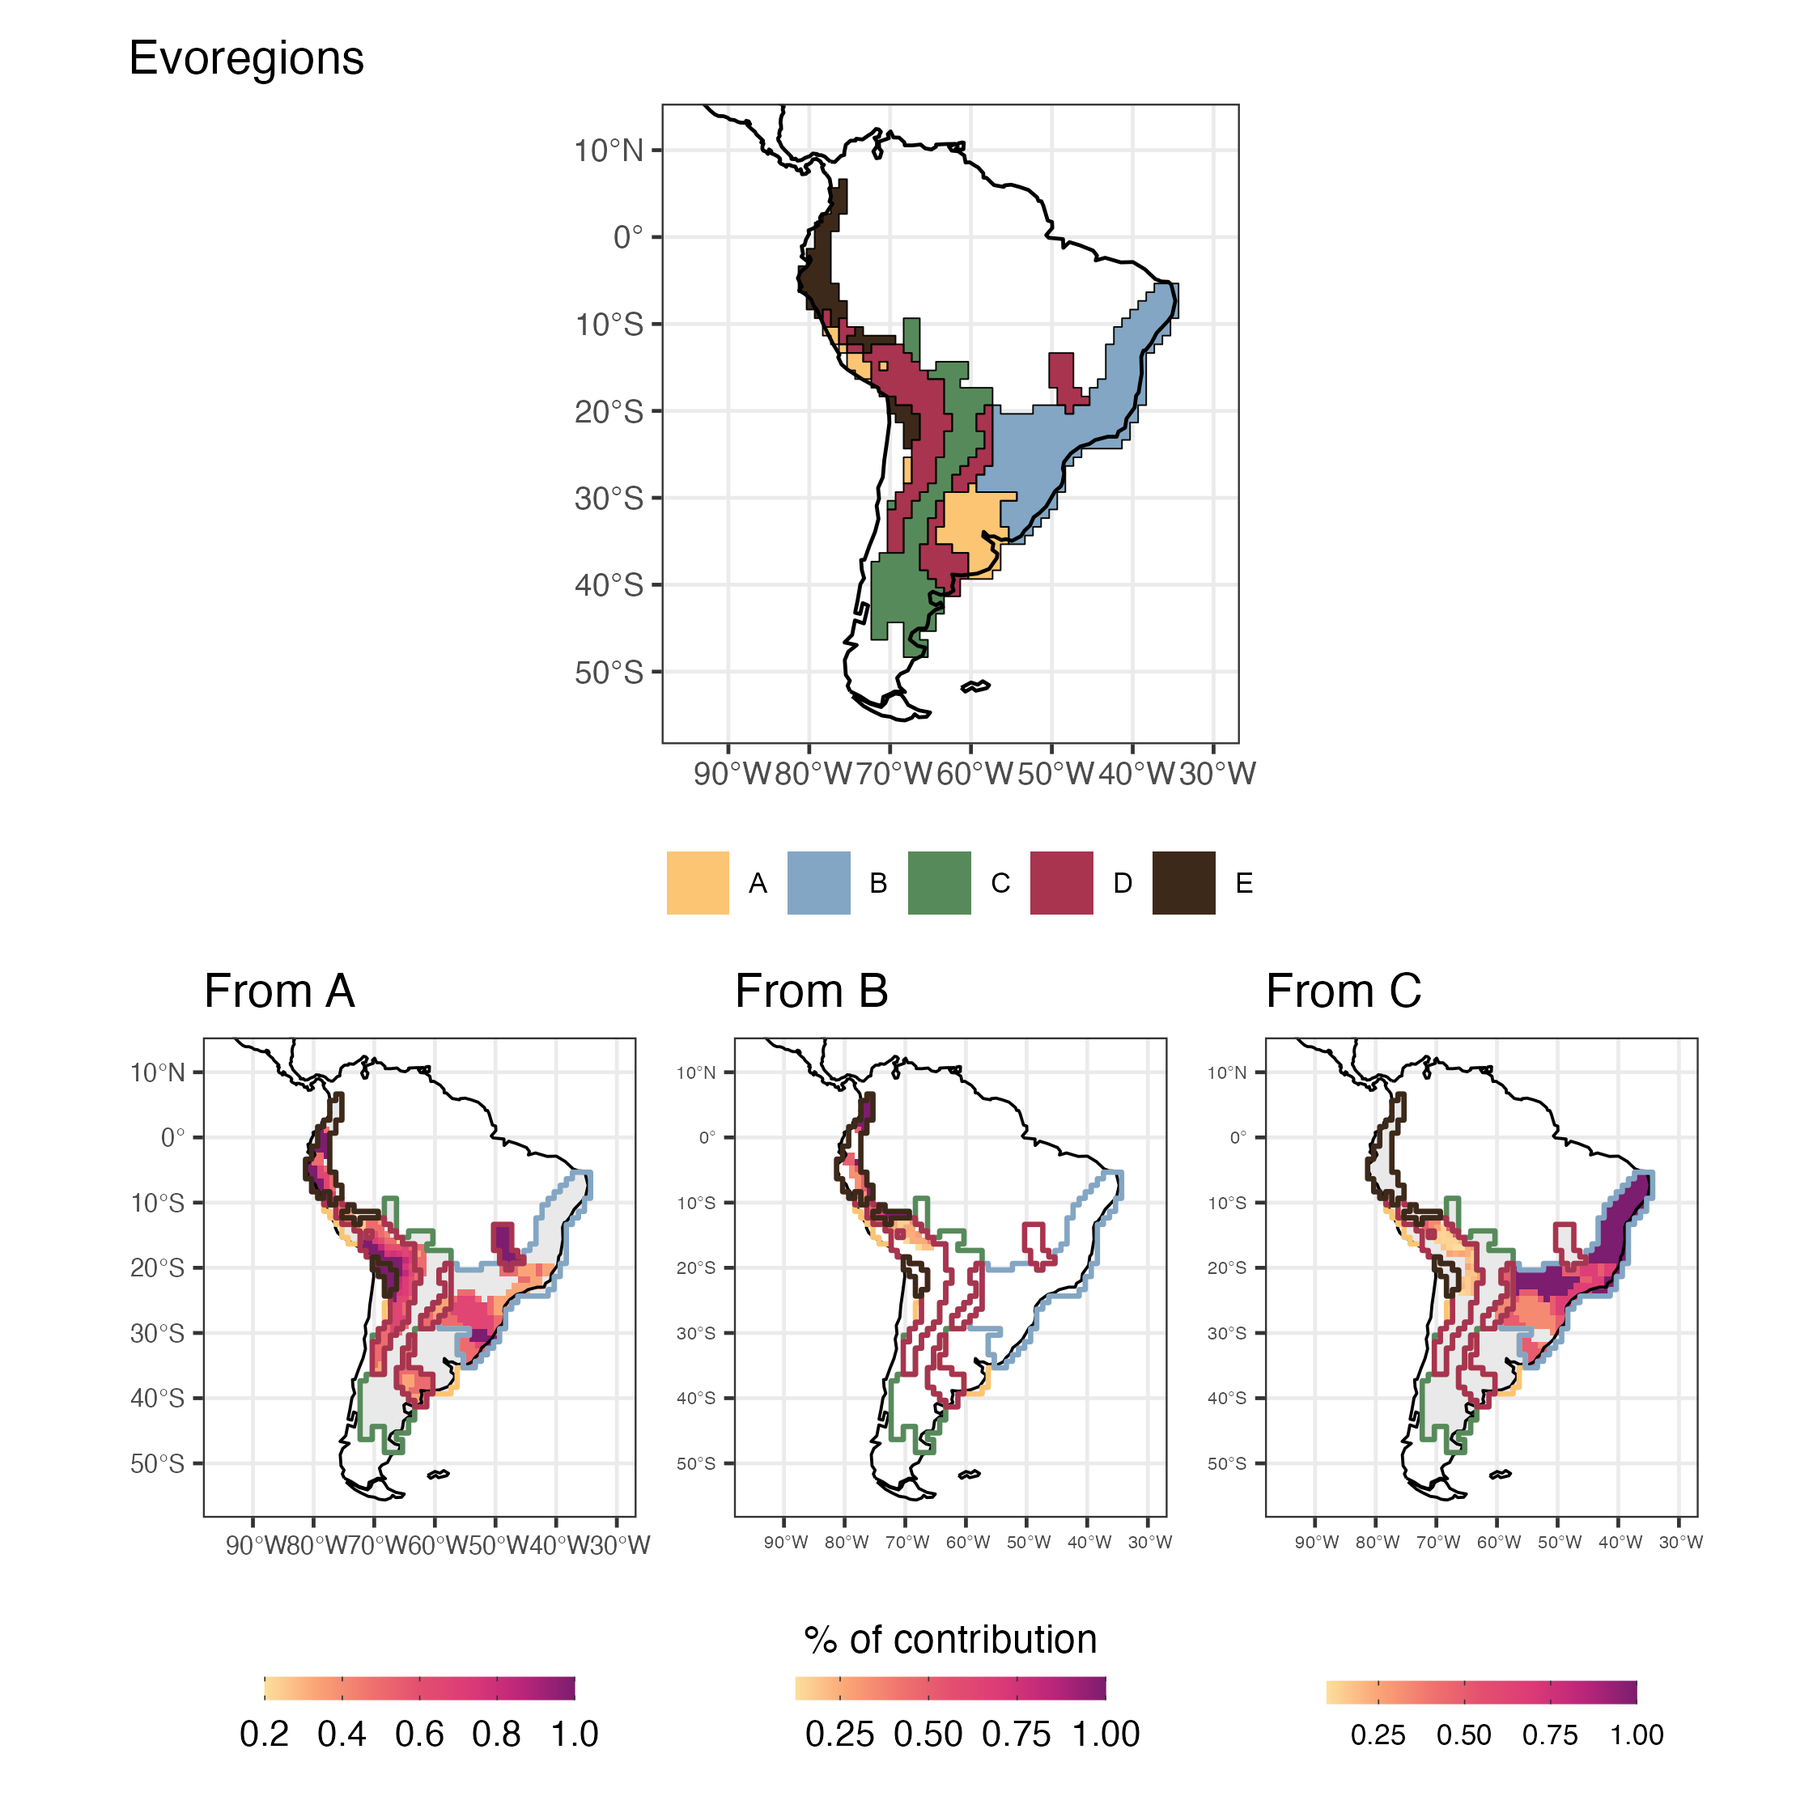
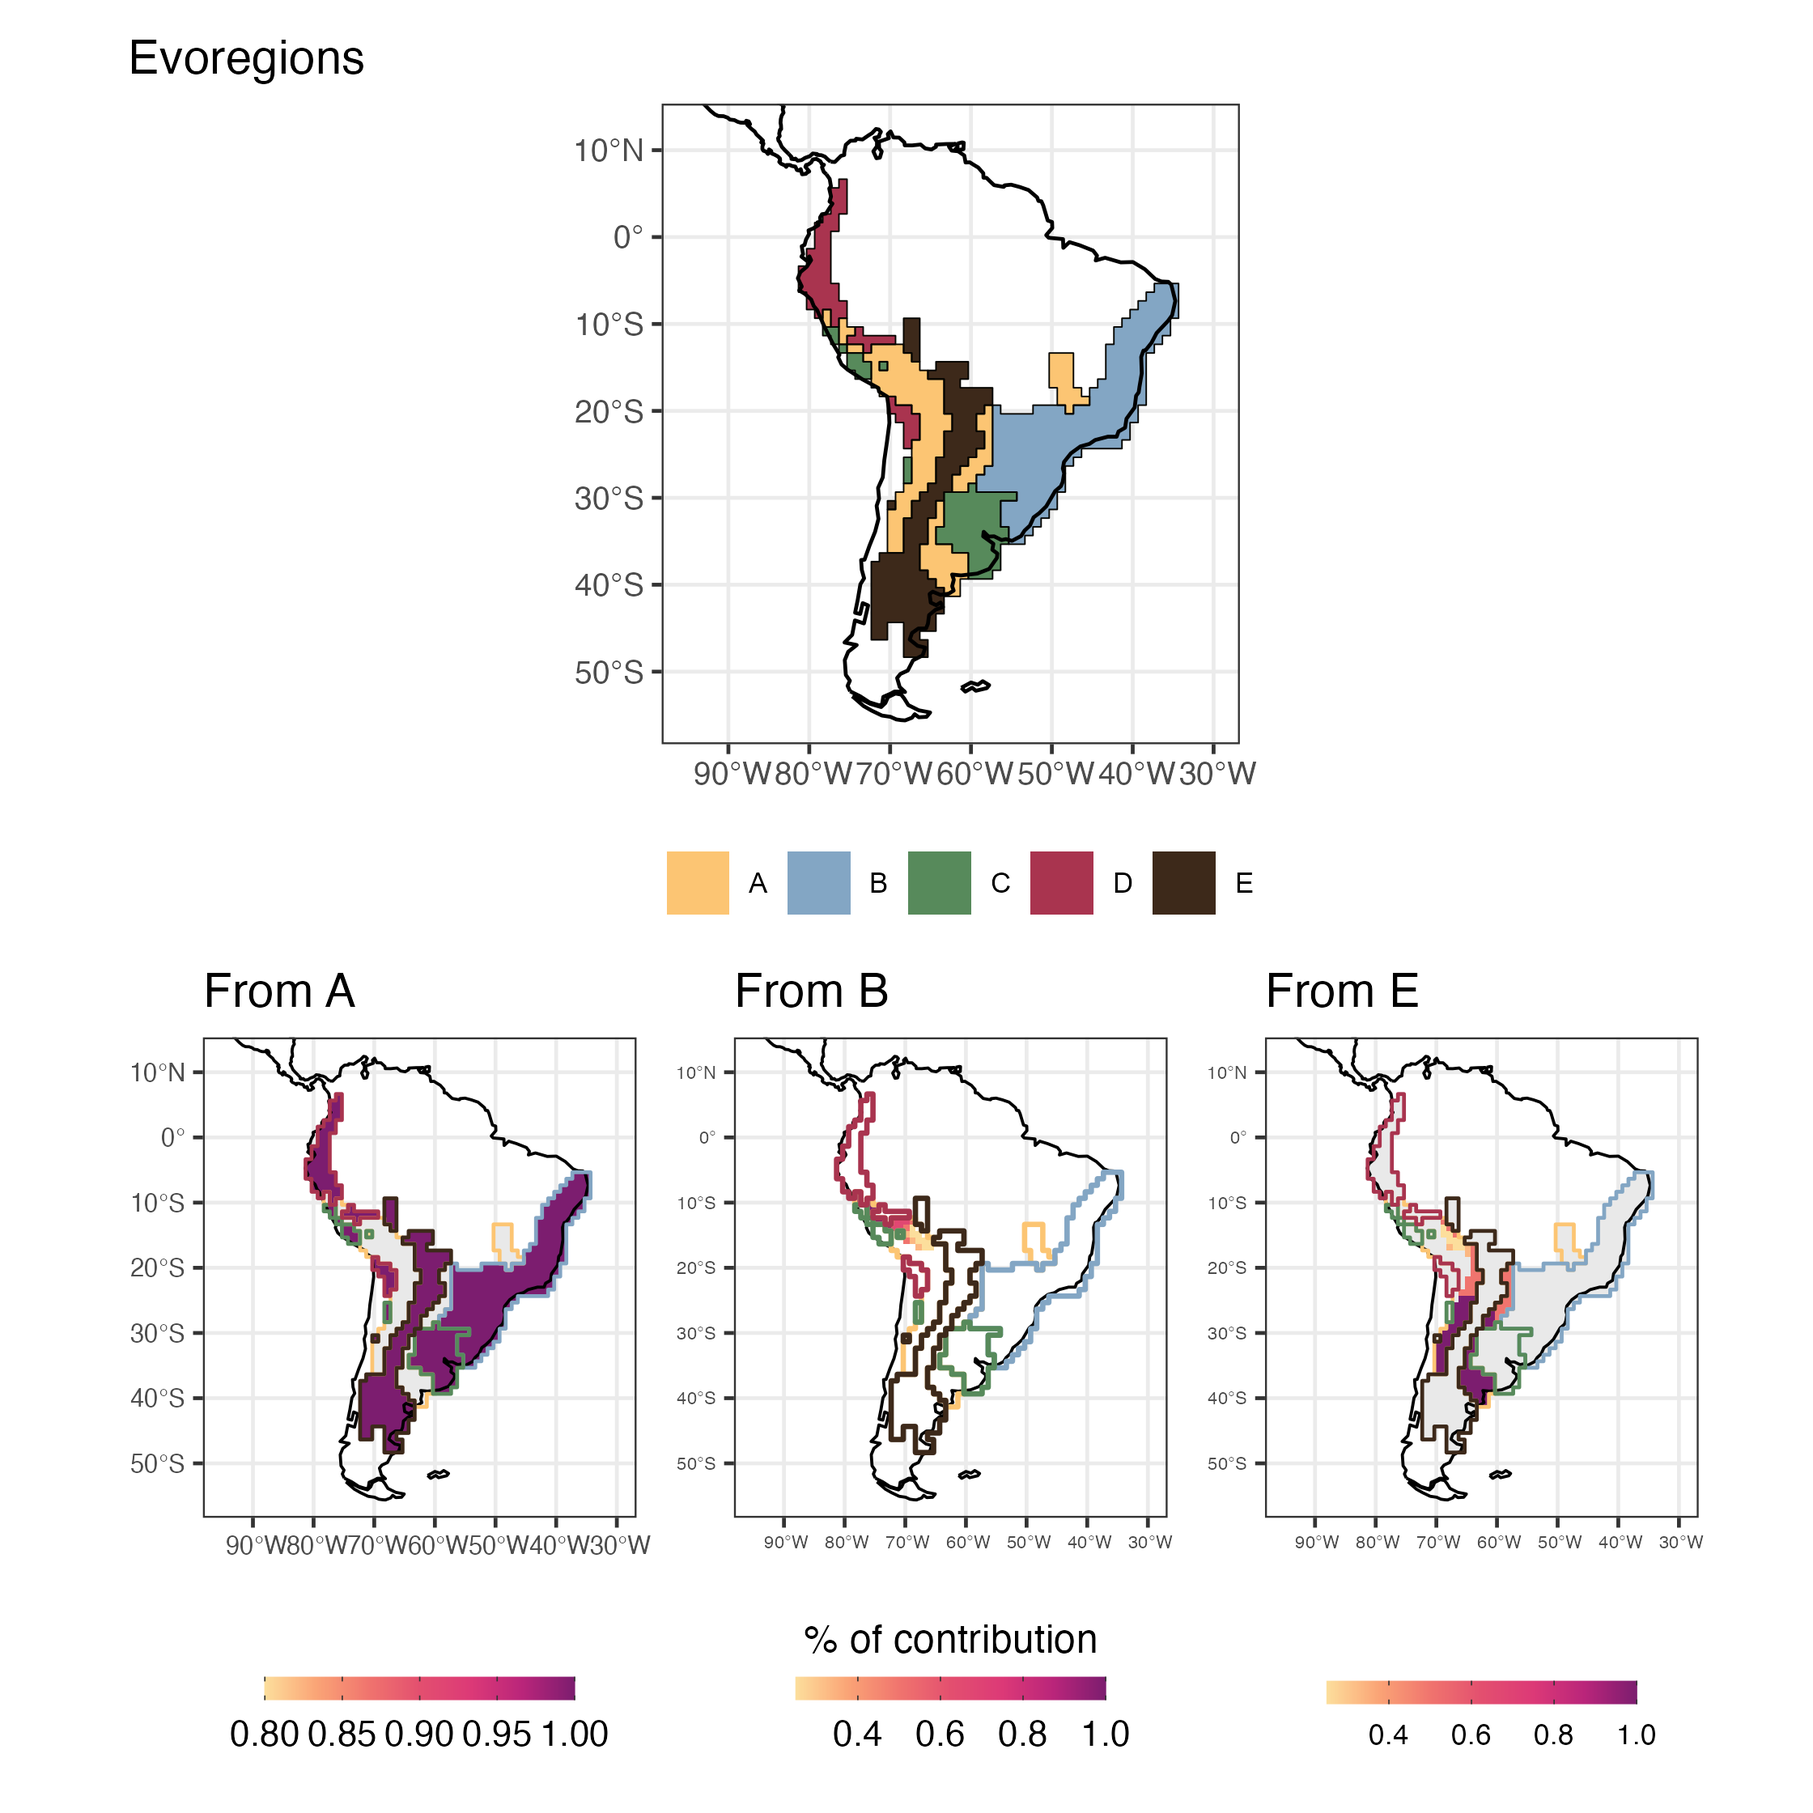
Built site for Herodotools: 0.0.1@89fd88a

diff --git a/articles/Intro_Herodotools_vignette.html b/articles/Intro_Herodotools_vignette.html
@@ -106,7 +106,8 @@
 <span class="kw"><a href="https://rdrr.io/r/base/library.html" class="external-link">library</a></span><span class="op">(</span><span class="va"><a href="https://here.r-lib.org/" class="external-link">here</a></span><span class="op">)</span>
 <span class="kw"><a href="https://rdrr.io/r/base/library.html" class="external-link">library</a></span><span class="op">(</span><span class="va"><a href="https://r-spatial.github.io/sf/" class="external-link">sf</a></span><span class="op">)</span>
 <span class="kw"><a href="https://rdrr.io/r/base/library.html" class="external-link">library</a></span><span class="op">(</span><span class="va"><a href="https://github.com/ropenscilabs/rnaturalearth" class="external-link">rnaturalearth</a></span><span class="op">)</span>
-<span class="kw"><a href="https://rdrr.io/r/base/library.html" class="external-link">library</a></span><span class="op">(</span><span class="va"><a href="https://github.com/Nowosad/rcartocolor" class="external-link">rcartocolor</a></span><span class="op">)</span></code></pre></div>
+<span class="kw"><a href="https://rdrr.io/r/base/library.html" class="external-link">library</a></span><span class="op">(</span><span class="va"><a href="https://github.com/Nowosad/rcartocolor" class="external-link">rcartocolor</a></span><span class="op">)</span>
+<span class="kw"><a href="https://rdrr.io/r/base/library.html" class="external-link">library</a></span><span class="op">(</span><span class="va"><a href="https://patchwork.data-imaginist.com" class="external-link">patchwork</a></span><span class="op">)</span></code></pre></div>
 <p>If you do not have Herodotools installed use the following code to install the package from github repository:</p>
 <div class="sourceCode" id="cb2"><pre class="downlit sourceCode r">
 <code class="sourceCode R"><span class="fu">devtools</span><span class="fu">::</span><span class="fu"><a href="https://devtools.r-lib.org/reference/remote-reexports.html" class="external-link">install_github</a></span><span class="op">(</span><span class="st">"GabrielNakamura/Herodotools"</span>, ref <span class="op">=</span> <span class="st">"main"</span><span class="op">)</span></code></pre></div>
@@ -333,6 +334,7 @@
 <p>Since it take some time to run BioGeoBears, and this is not the objective of this tutorial to show how to run a reconstruction using BioGeoBears we can just read a reconstruction model perfomed using DEC model to reconstruct the evoregions. To read the file containing the results of this reconstruction type:</p>
 <div class="sourceCode" id="cb14"><pre class="downlit sourceCode r">
 <code class="sourceCode R"><span class="kw"><a href="https://rdrr.io/r/base/library.html" class="external-link">library</a></span><span class="op">(</span><span class="va"><a href="http://phylo.wikidot.com/biogeobears" class="external-link">BioGeoBEARS</a></span><span class="op">)</span>
+<span class="kw"><a href="https://rdrr.io/r/base/source.html" class="external-link">source</a></span><span class="op">(</span><span class="op">)</span>
 <span class="fu"><a href="https://rdrr.io/r/base/load.html" class="external-link">load</a></span><span class="op">(</span>file <span class="op">=</span> <span class="fu">here</span><span class="fu">::</span><span class="fu"><a href="https://here.r-lib.org//reference/here.html" class="external-link">here</a></span><span class="op">(</span><span class="st">"inst"</span>, <span class="st">"extdata"</span>, <span class="st">"resDEC_akodon.RData"</span><span class="op">)</span><span class="op">)</span> <span class="co"># ancestral reconstruction</span></code></pre></div>
 <p>It is worth to note that the procedures decribed from here will work with any output model from BioGeoBear, but for sake of simplicity we decided to use just the <a href="https://revbayes.github.io/tutorials/biogeo/biogeo_intro.html" class="external-link">DEC model</a>.</p>
 </div>
@@ -352,7 +354,7 @@
 <span class="co"># getting the ancestral range area for each node </span>
 <span class="va">node.area</span> <span class="op">&lt;-</span> 
   <span class="fu"><a href="../reference/get_node_range_BioGeoBEARS.html">get_node_range_BioGeoBEARS</a></span><span class="op">(</span>
-    <span class="va">DEC_akodon</span>,
+    <span class="va">resDEC</span>,
     phyllip.file <span class="op">=</span> <span class="fu"><a href="https://here.r-lib.org//reference/here.html" class="external-link">here</a></span><span class="op">(</span><span class="st">"inst"</span>, <span class="st">"extdata"</span>, <span class="st">"geo_area_akodon.data"</span><span class="op">)</span>,
     <span class="va">akodon.newick</span>,
     max.range.size <span class="op">=</span> <span class="fl">4</span> 
@@ -510,7 +512,7 @@
      data <span class="op">=</span> <span class="va">sf.evoregion</span>, 
      color <span class="op">=</span> <span class="fu"><a href="https://rdrr.io/pkg/terra/man/flip.html" class="external-link">rev</a></span><span class="op">(</span><span class="va">col_five_hues</span><span class="op">)</span>,
      fill <span class="op">=</span> <span class="cn">NA</span>, 
-     size <span class="op">=</span> <span class="fl">0.7</span><span class="op">)</span> <span class="op">+</span>
+     size <span class="op">=</span> <span class="fl">0.5</span><span class="op">)</span> <span class="op">+</span>
    <span class="fu"><a href="https://ggplot2.tidyverse.org/reference/ggsf.html" class="external-link">coord_sf</a></span><span class="op">(</span>xlim <span class="op">=</span> <span class="va">map.limits</span><span class="op">$</span><span class="va">x</span>, ylim <span class="op">=</span> <span class="va">map.limits</span><span class="op">$</span><span class="va">y</span><span class="op">)</span> <span class="op">+</span>
    <span class="fu"><a href="https://ggplot2.tidyverse.org/reference/labs.html" class="external-link">ggtitle</a></span><span class="op">(</span><span class="st">"From A"</span><span class="op">)</span> <span class="op">+</span> 
    <span class="fu"><a href="https://ggplot2.tidyverse.org/reference/ggtheme.html" class="external-link">theme_bw</a></span><span class="op">(</span><span class="op">)</span> <span class="op">+</span>
@@ -530,19 +532,19 @@
                                   size <span class="op">=</span> <span class="fl">10</span><span class="op">)</span>
    <span class="op">)</span>
 
-<span class="va">map_dispersal_C</span> <span class="op">&lt;-</span> 
+<span class="va">map_dispersal_E</span> <span class="op">&lt;-</span> 
    <span class="va">sites</span> <span class="op"><a href="../reference/pipe.html">%&gt;%</a></span> 
    <span class="fu"><a href="https://ggplot2.tidyverse.org/reference/ggplot.html" class="external-link">ggplot</a></span><span class="op">(</span><span class="op">)</span> <span class="op">+</span> 
-   <span class="fu"><a href="https://ggplot2.tidyverse.org/reference/geom_tile.html" class="external-link">geom_raster</a></span><span class="op">(</span><span class="fu"><a href="https://ggplot2.tidyverse.org/reference/aes.html" class="external-link">aes</a></span><span class="op">(</span>x <span class="op">=</span> <span class="va">LONG</span>, y <span class="op">=</span> <span class="va">LAT</span>, fill <span class="op">=</span> <span class="va">dispersal.C</span><span class="op">)</span><span class="op">)</span> <span class="op">+</span> 
+   <span class="fu"><a href="https://ggplot2.tidyverse.org/reference/geom_tile.html" class="external-link">geom_raster</a></span><span class="op">(</span><span class="fu"><a href="https://ggplot2.tidyverse.org/reference/aes.html" class="external-link">aes</a></span><span class="op">(</span>x <span class="op">=</span> <span class="va">LONG</span>, y <span class="op">=</span> <span class="va">LAT</span>, fill <span class="op">=</span> <span class="va">dispersal.E</span><span class="op">)</span><span class="op">)</span> <span class="op">+</span> 
    <span class="fu"><a href="https://rdrr.io/pkg/rcartocolor/man/carto_scale.html" class="external-link">scale_fill_carto_c</a></span><span class="op">(</span>type <span class="op">=</span> <span class="st">"quantitative"</span>, palette <span class="op">=</span> <span class="st">"SunsetDark"</span><span class="op">)</span> <span class="op">+</span>
    <span class="fu"><a href="https://ggplot2.tidyverse.org/reference/ggsf.html" class="external-link">geom_sf</a></span><span class="op">(</span>data <span class="op">=</span> <span class="va">coastline</span>, size <span class="op">=</span> <span class="fl">0.4</span><span class="op">)</span> <span class="op">+</span>
    <span class="fu"><a href="https://ggplot2.tidyverse.org/reference/ggsf.html" class="external-link">geom_sf</a></span><span class="op">(</span>
      data <span class="op">=</span> <span class="va">sf.evoregion</span>, 
      color <span class="op">=</span> <span class="fu"><a href="https://rdrr.io/pkg/terra/man/flip.html" class="external-link">rev</a></span><span class="op">(</span><span class="va">col_five_hues</span><span class="op">)</span>,
      fill <span class="op">=</span> <span class="cn">NA</span>, 
-     size <span class="op">=</span> <span class="fl">0.7</span><span class="op">)</span> <span class="op">+</span>
+     size <span class="op">=</span> <span class="fl">0.5</span><span class="op">)</span> <span class="op">+</span>
    <span class="fu"><a href="https://ggplot2.tidyverse.org/reference/ggsf.html" class="external-link">coord_sf</a></span><span class="op">(</span>xlim <span class="op">=</span> <span class="va">map.limits</span><span class="op">$</span><span class="va">x</span>, ylim <span class="op">=</span> <span class="va">map.limits</span><span class="op">$</span><span class="va">y</span><span class="op">)</span> <span class="op">+</span>
-   <span class="fu"><a href="https://ggplot2.tidyverse.org/reference/labs.html" class="external-link">ggtitle</a></span><span class="op">(</span><span class="st">"From C"</span><span class="op">)</span> <span class="op">+</span> 
+   <span class="fu"><a href="https://ggplot2.tidyverse.org/reference/labs.html" class="external-link">ggtitle</a></span><span class="op">(</span><span class="st">"From E"</span><span class="op">)</span> <span class="op">+</span> 
    <span class="fu"><a href="https://ggplot2.tidyverse.org/reference/ggtheme.html" class="external-link">theme_bw</a></span><span class="op">(</span><span class="op">)</span> <span class="op">+</span>
    <span class="fu"><a href="https://ggplot2.tidyverse.org/reference/labs.html" class="external-link">labs</a></span><span class="op">(</span>fill <span class="op">=</span> <span class="st">""</span><span class="op">)</span> <span class="op">+</span>
    <span class="fu"><a href="https://ggplot2.tidyverse.org/reference/guides.html" class="external-link">guides</a></span><span class="op">(</span>fill <span class="op">=</span> <span class="fu"><a href="https://ggplot2.tidyverse.org/reference/guide_colourbar.html" class="external-link">guide_colorbar</a></span><span class="op">(</span>barheight <span class="op">=</span> <span class="fu"><a href="https://rdrr.io/r/grid/unit.html" class="external-link">unit</a></span><span class="op">(</span><span class="fl">2.3</span>, units <span class="op">=</span> <span class="st">"mm"</span><span class="op">)</span>,  
@@ -568,7 +570,7 @@
      data <span class="op">=</span> <span class="va">sf.evoregion</span>, 
      color <span class="op">=</span> <span class="fu"><a href="https://rdrr.io/pkg/terra/man/flip.html" class="external-link">rev</a></span><span class="op">(</span><span class="va">col_five_hues</span><span class="op">)</span>,
      fill <span class="op">=</span> <span class="cn">NA</span>, 
-     size <span class="op">=</span> <span class="fl">0.7</span><span class="op">)</span> <span class="op">+</span>
+     size <span class="op">=</span> <span class="fl">0.5</span><span class="op">)</span> <span class="op">+</span>
    <span class="fu"><a href="https://ggplot2.tidyverse.org/reference/ggsf.html" class="external-link">coord_sf</a></span><span class="op">(</span>xlim <span class="op">=</span> <span class="va">map.limits</span><span class="op">$</span><span class="va">x</span>, ylim <span class="op">=</span> <span class="va">map.limits</span><span class="op">$</span><span class="va">y</span><span class="op">)</span> <span class="op">+</span>
    <span class="fu"><a href="https://ggplot2.tidyverse.org/reference/labs.html" class="external-link">ggtitle</a></span><span class="op">(</span><span class="st">"From B"</span><span class="op">)</span> <span class="op">+</span> 
    <span class="fu"><a href="https://ggplot2.tidyverse.org/reference/ggtheme.html" class="external-link">theme_bw</a></span><span class="op">(</span><span class="op">)</span> <span class="op">+</span>
@@ -587,9 +589,8 @@
      plot.subtitle <span class="op">=</span> <span class="fu"><a href="https://ggplot2.tidyverse.org/reference/element.html" class="external-link">element_text</a></span><span class="op">(</span>hjust <span class="op">=</span> <span class="fl">0.5</span><span class="op">)</span>   
    <span class="op">)</span>
 
-<span class="kw"><a href="https://rdrr.io/r/base/library.html" class="external-link">library</a></span><span class="op">(</span><span class="va"><a href="https://patchwork.data-imaginist.com" class="external-link">patchwork</a></span><span class="op">)</span>
 
-<span class="va">map_dispersion_from</span> <span class="op">&lt;-</span> <span class="va">map_evoregion</span> <span class="op">/</span> <span class="op">(</span><span class="va">map_dispersal_A</span> <span class="op">|</span> <span class="va">map_dispersal_B</span> <span class="op">|</span> <span class="va">map_dispersal_C</span><span class="op">)</span> <span class="op">+</span>
+<span class="va">map_dispersion_from</span> <span class="op">&lt;-</span> <span class="va">map_evoregion</span> <span class="op">/</span> <span class="op">(</span><span class="va">map_dispersal_A</span> <span class="op">|</span> <span class="va">map_dispersal_B</span> <span class="op">|</span> <span class="va">map_dispersal_E</span><span class="op">)</span> <span class="op">+</span>
   <span class="fu">plot_layout</span><span class="op">(</span>heights <span class="op">=</span> <span class="fu"><a href="https://rdrr.io/pkg/terra/man/c.html" class="external-link">c</a></span><span class="op">(</span><span class="fl">1</span>, <span class="fl">.75</span><span class="op">)</span><span class="op">)</span></code></pre></div>
 <p><img src="Fig5_map_dispersion_from_akodon.png"><!-- --></p>
 <div class="section level3">
